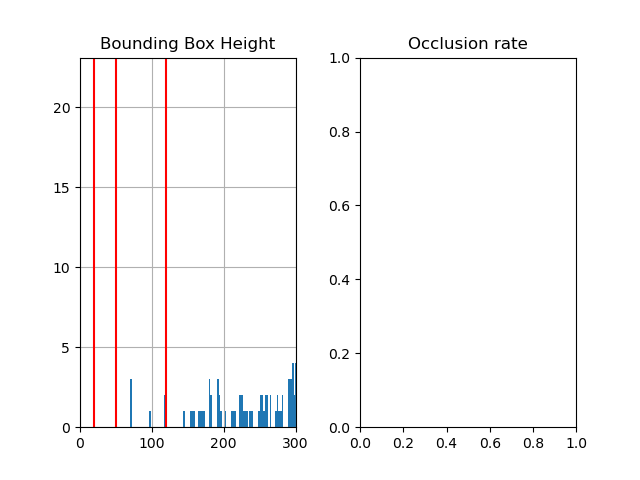
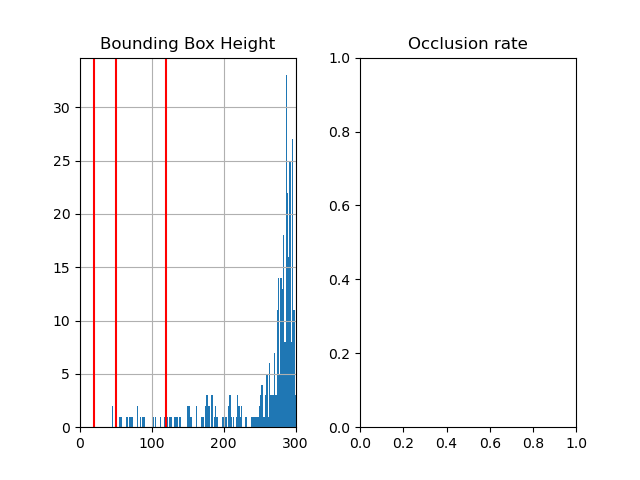
Readme update

diff --git a/src/preprocessing/coco_processing.py b/src/preprocessing/coco_processing.py
@@ -16,8 +16,8 @@ def subset_dict(dictionary, keys):
 def bbox_2_x0y0x1y1(dict):
     dict["x0"] = dict["bbox"][0]
     dict["y0"] = dict["bbox"][1]
-    dict["x1"] = dict["bbox"][0] + dict["bbox"][2]
-    dict["y1"] = dict["bbox"][1] + dict["bbox"][3]  # todo check that
+    dict["x1"] = dict["bbox"][2] # + dict["bbox"][2]
+    dict["y1"] = dict["bbox"][3] # + dict["bbox"][3]  # todo check that
     return dict
 
 
@@ -50,17 +50,20 @@ class COCOProcessing(DatasetProcessing):
 
         # Dataframes
         df_sequence_metadata = pd.DataFrame()
-        df_frame_metadata = pd.concat([pd.DataFrame(img, index=[img["id"]])[frame_features] for img in coco_json["images"]])
+        df_frame_metadata = pd.concat([pd.DataFrame(img, index=[str(img["id"])])[frame_features] for img in coco_json["images"]])
         df_gtbbox_metadata = pd.concat([pd.DataFrame(subset_dict(bbox_2_x0y0x1y1(annot), gtbbox_features), index=[annot["id"]])[gtbbox_features]
                                         for annot in coco_json["annotations"]])
         df_gtbbox_metadata.rename(columns={"image_id": "frame_id"}, inplace=True)
-        df_gtbbox_metadata = df_gtbbox_metadata.set_index(["id", "frame_id"])
+        df_gtbbox_metadata["frame_id"] = df_gtbbox_metadata["frame_id"].astype(str)
+        df_gtbbox_metadata["id"] = df_gtbbox_metadata["id"].astype(str)
+        df_gtbbox_metadata = df_gtbbox_metadata.set_index(["frame_id","id"])
         df_gtbbox_metadata["width"] = df_gtbbox_metadata["x1"] - df_gtbbox_metadata["x0"]
         df_gtbbox_metadata["height"] = df_gtbbox_metadata["y1"] - df_gtbbox_metadata["y0"]
         df_frame_metadata.rename_axis('frame_id')
         df_frame_metadata["seq_name"] = 0
         df_frame_metadata["weather"] = "dry"
         df_frame_metadata["id"] = df_frame_metadata.index
+        df_frame_metadata["frame_id"] = df_frame_metadata.index
         df_frame_metadata["is_night"] = 0
 
         # Targets in torch format

diff --git a/src/demos/demo_benchmark_analysis.py b/src/demos/demo_benchmark_analysis.py
@@ -87,7 +87,7 @@ plot_heatmap_metrics(df_analysis_heatmap, model_names, metrics, ODD_limit,
 
 # Plot an image in particular
 from src.plot_utils import plot_image_with_detections
-frame_idx = 1
+frame_idx = 8
 model_name = model_names[0]
 plot_thresholds = [0., 0.9, 0.9999]
 gtbbox_filtering = gtbbox_filtering_all["Overall"]

diff --git a/README_old.md b/README_old.md
@@ -1,75 +1,37 @@
 
-# Must-have
+TODO
+- master avec MoTSynth et Twincity
+- factoriser code
+  - classe dataset
+- ignore regions of twincity that bug (bbox too big or multiple colors)
 
-Analysis at the box level
-- BBox size / distance
-- BBox difficulty (what is it exactly ? Reasonable ?)
-- Occlusions
+#todo df_analysis as a result object ?
+#todo filter functions in the dataset ?
 
+Download motsynth
+Download eurocityperson
 
-Tests
-  - test fonctionels généraux
-  - tests unitaires
+Run `python motsynth_demo.py`
+Run `python ECP_demo.py`
 
-Metrics
-  - mAP
-
-Features ? Visualization (hard examples, specific criteria ...) 
-DebiAI for Visualization
-
-
-# Nice-to-have
-
-Specify ODD for given metrics
-
-Statistical Tests to uncover biases / detect significance
-
-New metrics (seeCode and reasonable !!! https://eurocity-dataset.tudelft.nl/eval/benchmarks/detection)
-
-MotSynth bonuses per bbox
-  - per person attribute
-
-Compare dataset characteristics (anticipate --> so as to identify biases between datasets from their characteristics in advance !!!)
-
-Other Datasets
-  - Synscapes
-  - Cityscapes Fog/Rain
-
-Detailed vizualization
-  - difficult cases
-  - specific parameter cases
-
-More metrics
-    - cf EuroCityPerson
+For more information on MoTSynth and its license see https://aimagelab.ing.unimore.it/imagelab/page.asp?IdPage=42 
+For more information on EuroCityPerson and its license see https://eurocity-dataset.tudelft.nl/ 
 
 
-# Later-to-have
+# Results
 
-Faster
-  - FPPI computation
+Study on a baseline (Faster-RCNN trained on Cityscapes) :
 
-Detailed analysis 
-  - Check reasons for false positives ???? what class is predcited instead ? (synthétique ou alors faire passer un detecteur d'objet)
-
-Uncover novel biases ? With all parameters without filtering ? Or even without knowing the parameters in advance ?
-
-Trying other model
-  - Faster-RCNN (NightOwls, Caltech Pedestrian, Cityscapes-Rain/Fog/Sun, CUHK)
-  - Mask-RCNN
-  - SoTA ??? SSD ??? Pedestron ???
-
-# Reflexion / Biblio
+| Dataset                  | MoTSynth (Synthetic)                                                                            | EuroCityPerson (Real)                                                                                                                              |
+|--------------------------|-------------------------------------------------------------------------------------------------|----------------------------------------------------------------------------------------------------------------------------------------------------| 
+| Img example              | <img src="results/motsynth_img.png" alt="Motsynth example" style="max-width: 150;">             |  |
+| pval or correlation test | <img src="results/motsynth_pval.png" alt="Motsynth pval" style="max-width: 150;">               | <img src="results/ecp_pval.png" alt="Eurocityperson pval" style="max-width: 150;">                                                                 |
+| Day vs Night             | <img src="results/motsynth_dayvsnight.png" alt="Motsynth day vs night" style="max-width: 150;"> | <img src="results/ecp_dayvsnight.png" alt="Eurocityperson pval" style="max-width: 150;">                                                           |
 
 
-Do the biblio
+pval indicates statstical significance for night/day for both MR and FPPI, and weather for MR.
 
-Check ODD principles
-Variety for independance would be nice !
-Motsynth : choice occlusion is computed from keypoints
-other ideas : https://dbcollection.readthedocs.io/en/latest/datasets/inria_ped.html
-Checker si les solutions du privé donnent déjà des specs
-Get a forked mmdet with added datasets (+ add the dataset description such as day and night ?)
-- NMS ?
+We plot an example of performance for the baseline, in either day or night scenes in both datasets. Performance are worse at night.
 
 # Install
 conda install pytorch==1.12.1 torchvision==0.13.1 torchaudio==0.12.1 cudatoolkit=11.3 -c pytorch
@@ -85,3 +47,4 @@ scikit-learn
 cpu conda install pytorch torchvision torchaudio -c pytorch
 
 See mmdet / mmcv for install
+

diff --git a/README_datasets.md b/README_datasets.md
@@ -1,0 +1,12 @@
+
+# Datasets
+
+- PennFudan
+  - Isgroup : ignore region ? (if not it generates false positives because good detector find each people in the group instead of just 1)
+- MoTSynth
+  - ??
+- ECP
+- Twincity
+  - ??
+- Twincity
+  - Hendled Glitch via ignore regions : too big bbox or multiple colors
